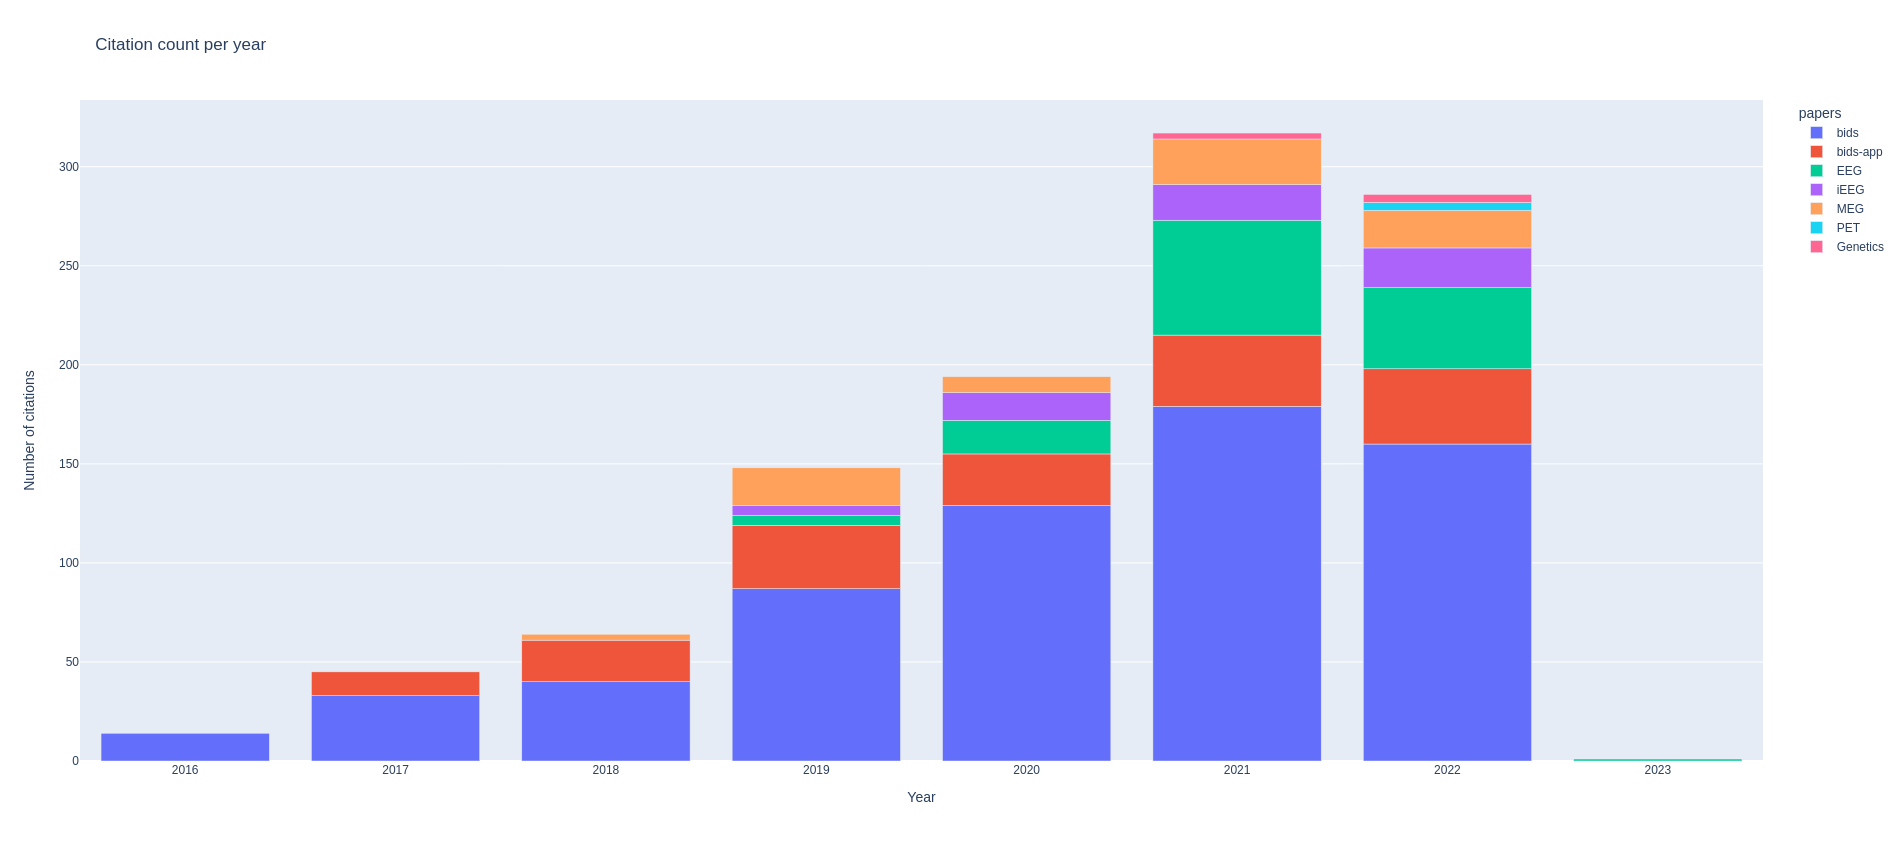
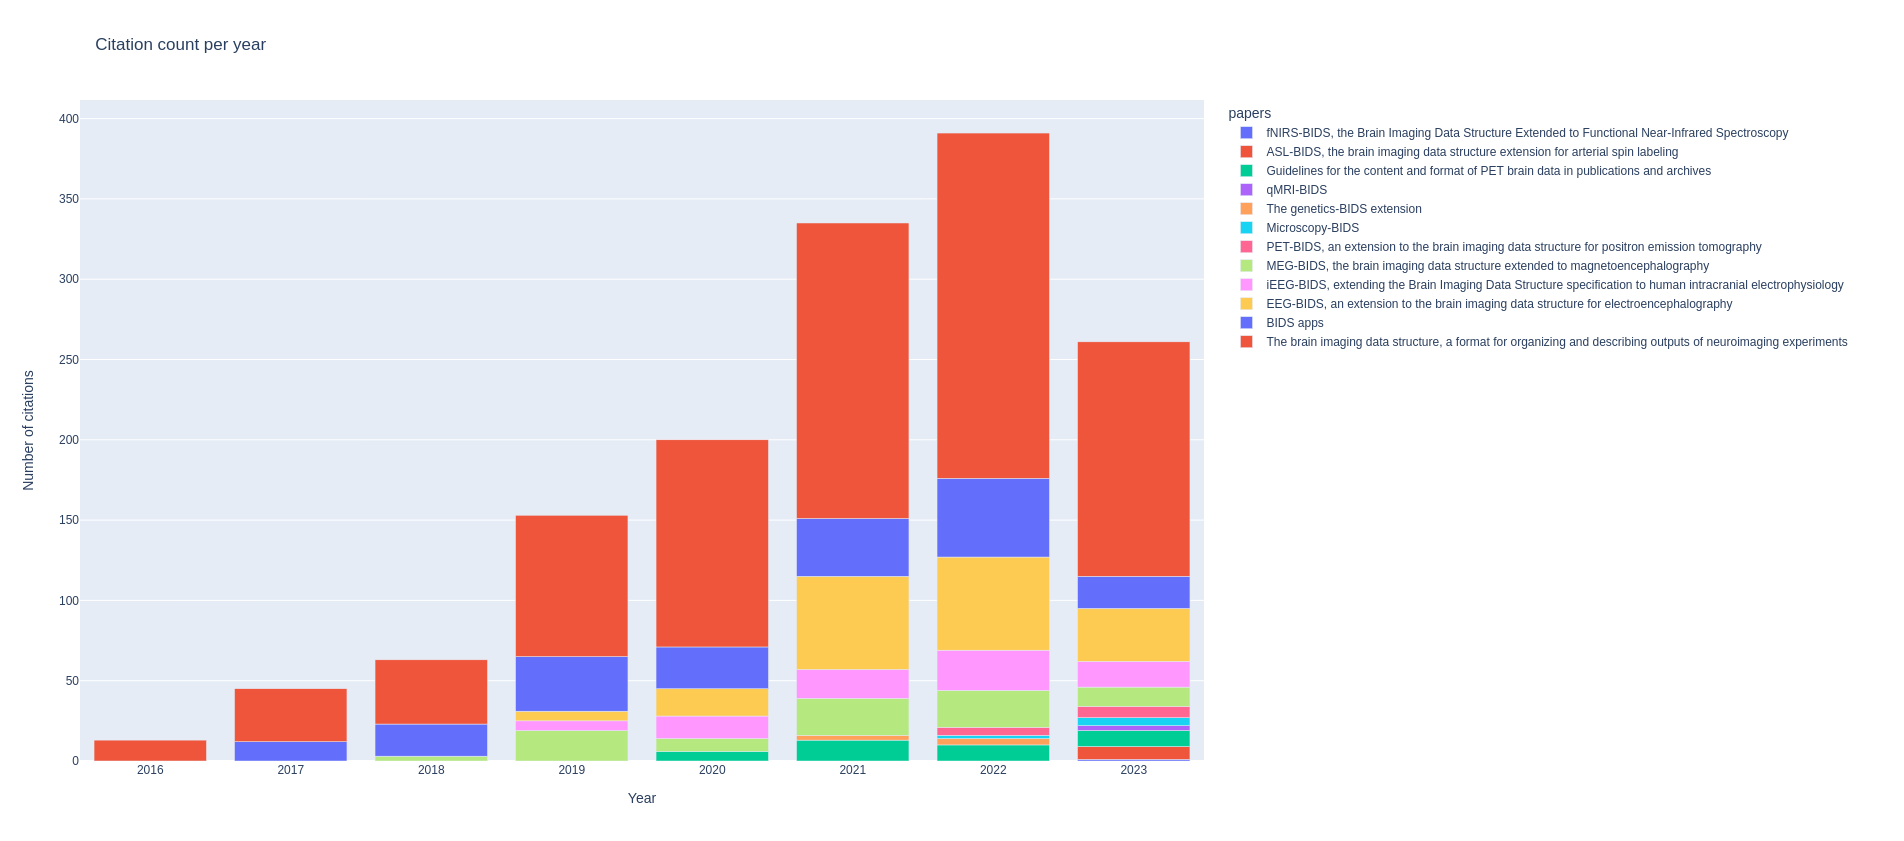
update plots citation

diff --git a/scripts/count_citation.py b/scripts/count_citation.py
@@ -1,5 +1,6 @@
 from __future__ import annotations
 
+import json
 from pathlib import Path
 
 import pandas as pd
@@ -7,14 +8,48 @@ import plotly.express as px
 import requests
 from pyzotero import zotero
 from rich import print
+from utils import data_dir
 
-from .utils import data_dir
-
-DEBUG = True
-
+DEBUG = False
+VERBOSE = False
+MINIMUM_YEAR = 2016
 
 # requires token from https://opencitations.net/index/coci/api/v1/token
 # saved in token.txt
+
+
+def main():
+    # List dois for BIDS papers from zotero group
+    zot = zotero.Zotero(library_id="5111637", library_type="group")
+    items = zot.everything(zot.top())
+    with open(data_dir() / "papers.json", "w") as f:
+        json.dump(items, f, indent=" ")
+
+    papers = {}
+    for item in items:
+        if VERBOSE:
+            print(item)
+        title = item["data"].get("shortTitle") or item["data"].get("title")
+
+        DOI = item["data"].get("DOI")
+        if not DOI:
+            if extra := item["data"].get("extra"):
+                DOI = extra.replace("DOI: ", "")
+
+        if DOI:
+            papers[title] = DOI
+
+    print(papers)
+
+    output_file = data_dir() / "count_citation.tsv"
+
+    df = load_dataframe_from_file(output_file)
+
+    if df.empty:
+        df = query_api(papers)
+        save_dataframe_to_file(df, output_file)
+
+    plot_citation_count(df)
 
 
 def load_dataframe_from_file(file_path: Path) -> pd.DataFrame:
@@ -31,11 +66,14 @@ def return_citation_count_per_year(citations_doi: str) -> dict[str, int]:
         return {}
     citation_count_per_year = {}
     citations_doi = citations_doi.replace("; ", "__")
+    print(f"Trying querying all citing papers at once: {citations_doi}")
     if metadata := query_for_metadata(citations_doi):
         for citation in metadata:
             year = citation["year"]
             if "-" in year:
                 year = year.split("-")[0]
+            if int(year) < MINIMUM_YEAR:
+                continue
             if year in citation_count_per_year:
                 citation_count_per_year[year] += 1
             else:
@@ -44,9 +82,12 @@ def return_citation_count_per_year(citations_doi: str) -> dict[str, int]:
         citations_doi = citations_doi.split("__")
         print(f" querying papers one by one: {citations_doi}")
         for citation in citations_doi:
-            print(f"  querying: {citation}")
+            if VERBOSE:
+                print(f"  querying: {citation}")
             if metadata := query_for_metadata(citation):
-                year = metadata[0]["year"]
+                year = metadata[0]["year"].split("-")[0]
+                if int(year) < MINIMUM_YEAR:
+                    continue
                 if year in citation_count_per_year:
                     citation_count_per_year[year] += 1
                 else:
@@ -72,7 +113,9 @@ def query_api(papers: dict[str, str]) -> dict[str, list[str] | list[int]]:
     """
     df = {"papers": [], "years": [], "nb_citations": []}
 
-    for paper_ in papers:
+    for i, paper_ in enumerate(papers):
+        if i > 4 and DEBUG:
+            break
         print(f" {paper_}")
         if metadata := query_for_metadata(papers[paper_]):
             print(metadata)
@@ -106,34 +149,6 @@ def plot_citation_count(df: pd.DataFrame):
         labels={"years": "Year", "nb_citations": "Number of citations"},
     )
     fig.show()
-
-
-def main():
-    # List dois for BIDS papers from zotero group
-    zot = zotero.Zotero(library_id="5111637", library_type="group")
-    items = zot.everything(zot.top())
-    papers = {}
-    for item in items:
-        print(item)
-        title = item["data"].get("shortTitle") or item["data"].get("title")
-
-        DOI = item["data"].get("DOI")
-        if not DOI:
-            if extra := item["data"].get("extra"):
-                DOI = extra.replace("DOI: ", "")
-
-        if DOI:
-            papers[title] = DOI
-
-    output_file = data_dir() / "count_citation.tsv"
-
-    df = load_dataframe_from_file(output_file)
-
-    if df.empty:
-        df = query_api(papers)
-        save_dataframe_to_file(df, output_file)
-
-    plot_citation_count(df)
 
 
 if __name__ == "__main__":

diff --git a/scripts/locate_affiliations.py b/scripts/locate_affiliations.py
@@ -15,9 +15,9 @@ import plotly.express as px
 import ruamel.yaml
 from geopy.geocoders import Nominatim
 from rich import print
-
-from .utils import bids_spec_dir
-from .utils import data_dir
+from utils import bids_spec_dir
+from utils import data_dir
+from utils import figures_dir
 
 
 def main():
@@ -71,7 +71,9 @@ def main():
     planet_slider_fig = px.scatter_geo(
         df, lat=df.latitude, lon=df.longitude, hover_name="address", projection="natural earth"
     )
-    planet_slider_fig.write_image("affiliations.png", width=800, height=400, scale=2)
+    planet_slider_fig.write_image(
+        figures_dir() / "affiliations.png", width=800, height=400, scale=2
+    )
 
 
 def get_location(geolocator, affiliation):

diff --git a/scripts/plot_google_citations.py b/scripts/plot_google_citations.py
@@ -1,0 +1,28 @@
+from __future__ import annotations
+
+import pandas as pd
+import plotly.express as px
+from utils import data_dir
+
+input_file = data_dir() / "citation_google_scholar.tsv"
+
+df = pd.read_csv(input_file, sep="\t")
+
+df["papers"] = df.paper
+
+df = pd.wide_to_long(df, stubnames="year_", i="paper", j="year")
+
+df = df.rename(columns={"year_": "nb_citations"})
+df = df.reset_index(level=["year"])
+print(df)
+print(df.columns)
+
+fig = px.bar(
+    df,
+    x="year",
+    y="nb_citations",
+    color="papers",
+    title="Citation count per year",
+    labels={"years": "Year", "nb_citations": "Number of citations"},
+)
+fig.show()

diff --git a/scripts/guess_gender_contributors.py b/scripts/guess_gender_contributors.py
@@ -1,10 +1,12 @@
-"""Guess gender of contributors to BIDS."""
+"""Guess gender of contributors to BIDS.
+
+Use the bids specification citation.cff file as input.
+"""
 from __future__ import annotations
 
 import gender_guesser.detector as gender
 import ruamel.yaml
-
-from .utils import bids_spec_dir
+from utils import bids_spec_dir
 
 
 with open(bids_spec_dir() / "CITATION.cff") as f:
@@ -24,6 +26,8 @@ for author in cff["authors"]:
     guess = d.get_gender(author["given-names"])
     print(f"{author['given-names']}: {guess}")
     results[guess] += 1
+
+print()
 
 for key in results:
     print(f"- {key}: {results[key]}")

diff --git a/scripts/utils.py b/scripts/utils.py
@@ -13,3 +13,7 @@ def bids_spec_dir():
 
 def data_dir():
     return root_dir() / "data"
+
+
+def figures_dir():
+    return root_dir() / "images"

diff --git a/README.md b/README.md
@@ -65,6 +65,8 @@ https://docs.google.com/spreadsheets/d/1rz3mQl5qvYBVvqJlWhSg1c9qS09ayG8GmyOqS8JZ
 updated tsv in this folder
 -->
 
+![](./images/google_citations.png)
+
 ### GitHub stars
 
 | repository        | stars                                                                                      |
@@ -88,7 +90,8 @@ updated tsv in this folder
 | bids-schema       | ![PyPI - Downloads](https://img.shields.io/pypi/dm/bidsschematools)                                                      |
 | statistical model | ![PyPI - Downloads](https://img.shields.io/pypi/dm/bsmschema)                                                            |
 
-For the number of docker pulls of the BIDS apps, please check the [BIDS app dashboard](https://bids-apps.neuroimaging.io/apps/).
+For the number of docker pulls of the BIDS apps, please check the
+[BIDS app dashboard](https://bids-apps.neuroimaging.io/apps/).
 
 ### Contributors
 
